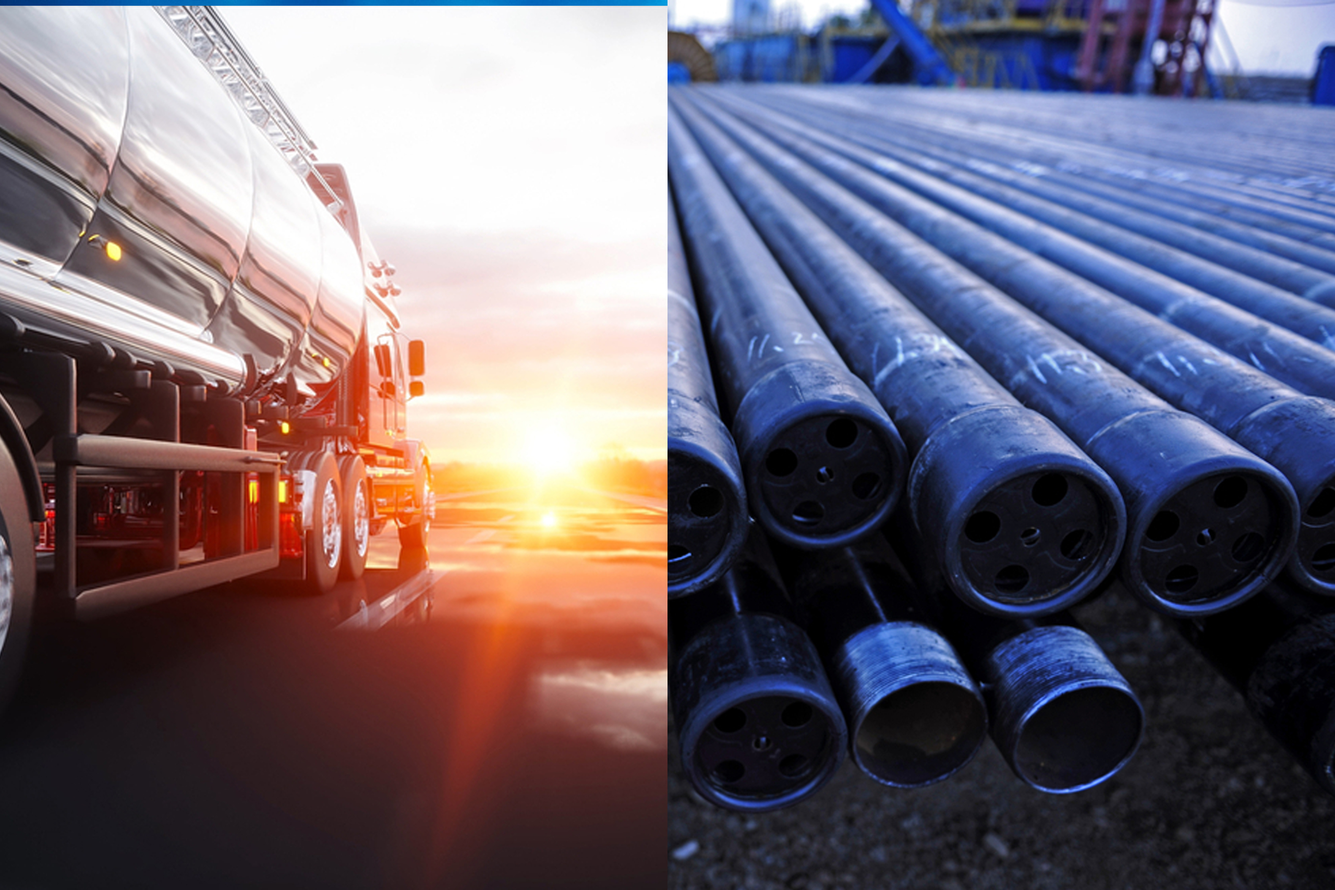
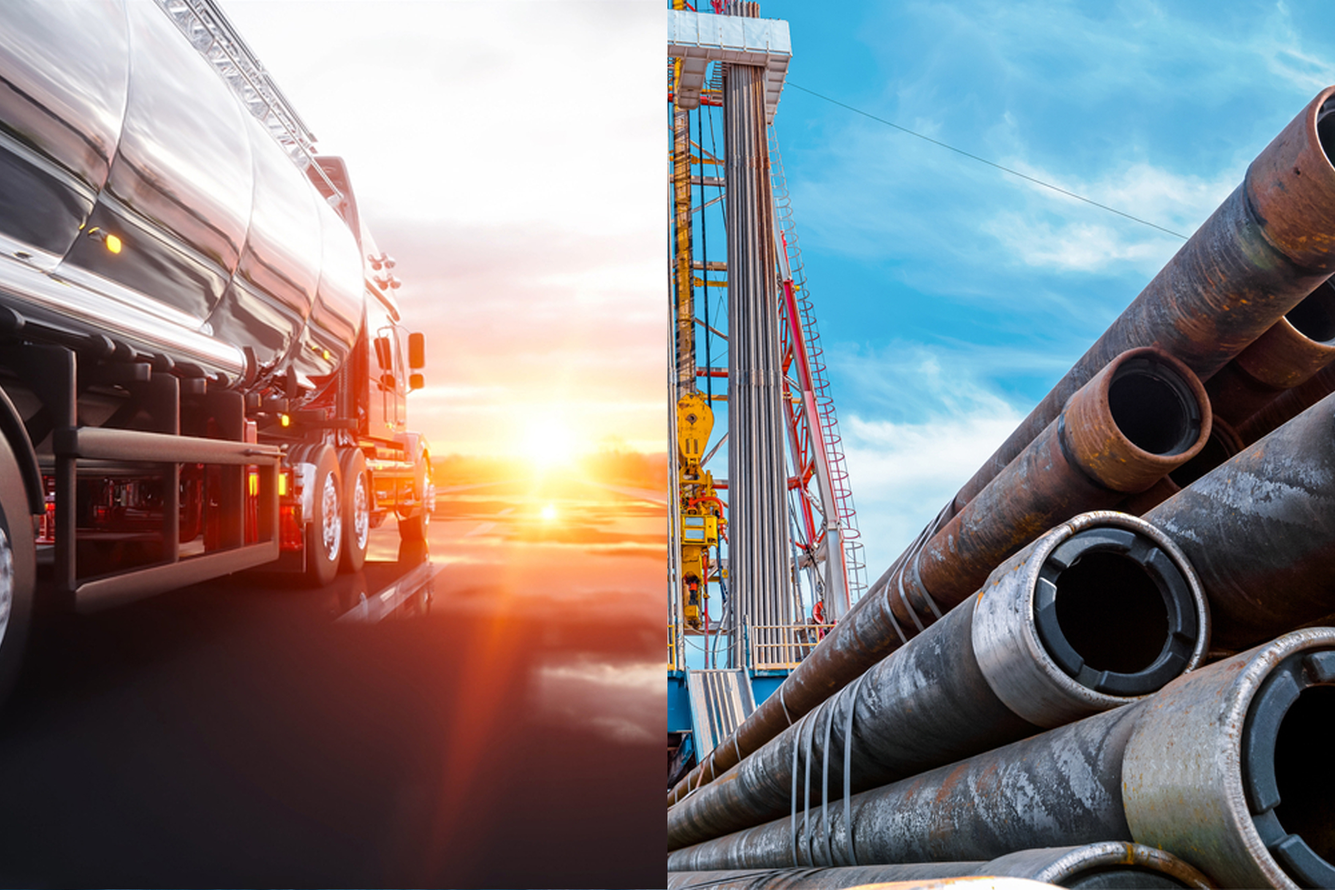
index bg change

diff --git a/index.html b/index.html
@@ -441,7 +441,7 @@
                     </div>
                     <span class="media__number">01</span>
                 </div>
-                <div class="media-project-hover" data-background="images/scrap 1.jpg">
+                <div class="media-project-hover" data-background="images/scrap.jpg">
                     <div class="bg-overlay"></div>
                     <div class="media__body">
                         <h5 class="media__sub-title title-sub">scrap</h5>
